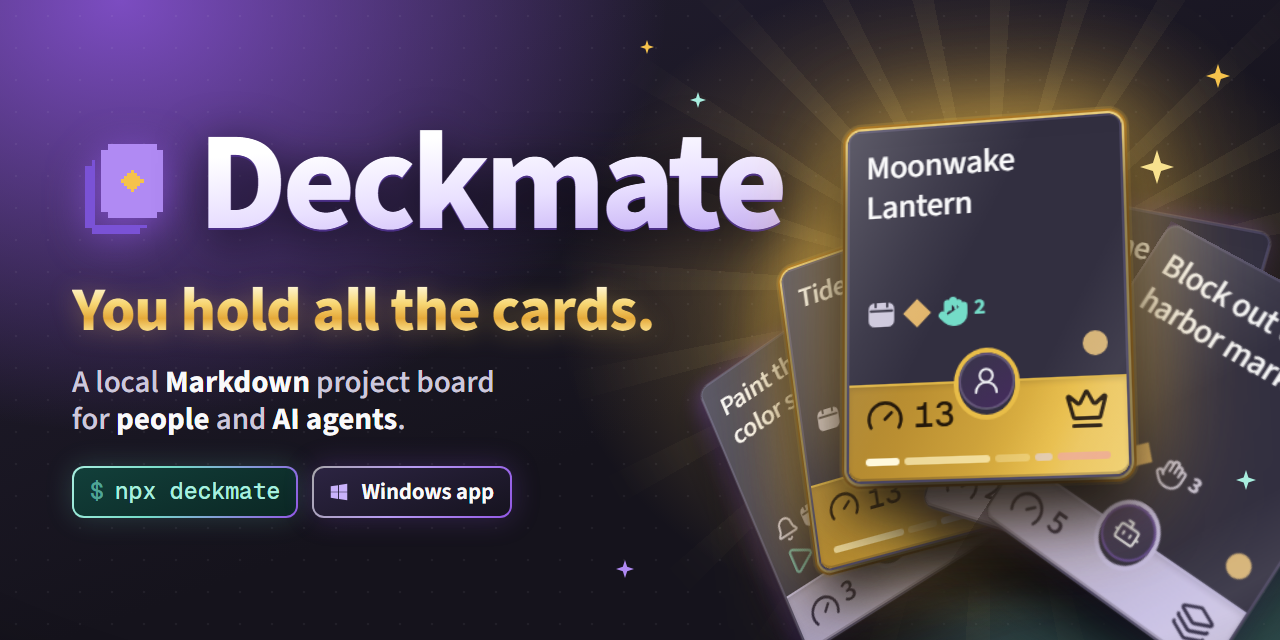
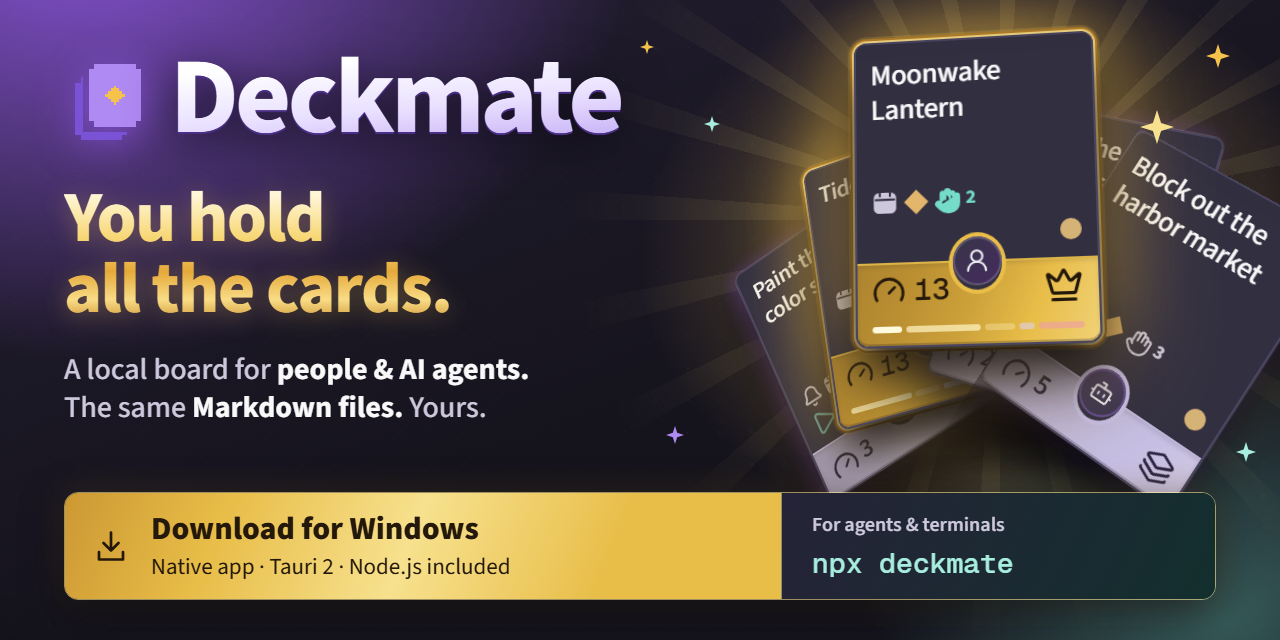
docs: README hero, social preview and docs for the Tauri shell
- New README hero in English and Russian: banner, "You hold all the
  cards.", download and npx paths, release/CI/license badges.
- The social preview leads with the Windows app and npx deckmate for
  agents, keeping the card fan.
- The start-screen screenshot shows the real version.
- AGENTS.md, CONTRIBUTING.md, SECURITY.md and docs/github-settings.md
  describe the Tauri shell; README quick start covers WebView2, the bundled
  Node and upgrading from the Electron app.

diff --git a/docs/social-preview.html b/docs/social-preview.html
@@ -3,58 +3,57 @@
 <head>
   <meta charset="utf-8">
   <meta name="viewport" content="width=1280, initial-scale=1">
-  <title>Deckmate — a local Markdown project board for teams of people and AI agents</title>
-  <!-- 2026-11-07: GitHub link preview, 1280×640; rendered by `npm run shots`. The fanned cards are crops of the real
+  <title>Deckmate — your project, on your desktop. People and AI agents, the same Markdown files.</title>
+  <!-- 2026-11-09: shared GitHub preview and README banner, 1280×640; render with `npm run shots -- --social`.
+       The fanned cards are crops of the real
        docs/social-cards.png capture (five cards, 230×294 px each, 262 px apart, 16 px inset), not redrawn UI. -->
   <style>
     @font-face { font-family: "Source Sans 3"; src: url('../assets/fonts/source-sans-3/SourceSans3-latin-wght.woff2'); font-weight: 200 900; }
     @font-face { font-family: "Geist Mono"; src: url('../assets/fonts/geist/GeistMono-Medium.ttf'); font-weight: 500; }
-    :root { color-scheme: dark; --night: #15131c; --ink: #f9f9fa; --muted: #cdc8dc; --plum: #9258e5; --gold: #f5c24c;
-      --champagne: #f7e18e; --hero: #e5b650; --mint: #a8eedf; --mint-ground: #0f3a35; --mint-edge: #2a8a7b; }
+    :root { color-scheme: dark; --night: #15131c; --ink: #f9f9fa; --muted: #cdc8dc; --plum: #9258e5;
+      --gold: #e8bd48; --champagne: #f7e18e; --hero-ink: #24180a; --mint: #a8eedf; }
     * { box-sizing: border-box; }
     body { margin: 0; background: var(--night); color: var(--ink); font-family: "Source Sans 3", sans-serif; }
     .stage { position: relative; width: 1280px; height: 640px; overflow: hidden;
       background:
-        radial-gradient(560px 460px at 960px 300px, #f5c24c80, #e5b65030 45%, transparent 72%),
-        radial-gradient(760px 600px at 120px 0px, #9258e5cc, transparent 72%),
-        radial-gradient(560px 400px at 1200px 660px, #74dcc866, transparent 70%),
+        radial-gradient(500px 400px at 1000px 260px, #f5c24c80, #e5b65030 45%, transparent 72%),
+        radial-gradient(760px 620px at 80px -100px, #9258e5ee, transparent 74%),
+        radial-gradient(500px 400px at 1220px 620px, #74dcc85c, transparent 70%),
         linear-gradient(160deg, #241f33, var(--night) 60%); }
     /* A faint pixel grid recalls the board and the pixel mark without competing with the cards. */
     .stage::after { content: ""; position: absolute; inset: 0; pointer-events: none; background: radial-gradient(130% 120% at 50% 45%, transparent 55%, #0000008c); }
-    .stage::before { content: ""; position: absolute; inset: 0; opacity: .35;
+    .stage::before { content: ""; position: absolute; inset: 0; opacity: .25;
       background-image: radial-gradient(#ffffff26 1.2px, transparent 1.6px); background-size: 32px 32px; }
-    .copy { position: absolute; left: 72px; top: 0; bottom: 0; width: 600px; display: flex; flex-direction: column; justify-content: center; }
-    .brand { display: flex; align-items: center; gap: 22px; }
-    .logo { width: 104px; height: 104px; image-rendering: pixelated; filter: drop-shadow(0 6px 18px #9258e5aa); }
-    h1 { margin: 0; padding-bottom: 8px; font-size: 140px; font-weight: 800; line-height: .9; letter-spacing: -.035em;
+    .copy { position: absolute; z-index: 2; left: 64px; top: 44px; width: 650px; }
+    .brand { display: flex; align-items: center; gap: 18px; }
+    .logo { width: 88px; height: 88px; image-rendering: pixelated; filter: drop-shadow(0 6px 18px #9258e5aa); }
+    h1 { margin: 0; padding-bottom: 8px; font-size: 108px; font-weight: 800; line-height: 1; letter-spacing: -.035em;
       background: linear-gradient(175deg, #ffffff 20%, #e9e0ff 55%, #b79cf2 100%); -webkit-background-clip: text; background-clip: text; color: transparent;
       filter: drop-shadow(0 2px 0 #4b2f86) drop-shadow(0 10px 24px #0a0812cc); }
-    .slogan { margin: 24px 0 0; font-size: 62px; font-weight: 800; line-height: 1; letter-spacing: -.015em;
+    .slogan { margin: 24px 0 0; font-size: 72px; font-weight: 800; line-height: .98; letter-spacing: -.025em;
       background: linear-gradient(180deg, #fff6d6 8%, #f7d775 38%, #e5a93a 62%, #f9dc86 82%, #c98d2a); -webkit-background-clip: text; background-clip: text; color: transparent;
       filter: drop-shadow(0 3px 12px #e5b65055); }
-    .tagline { margin: 22px 0 28px; color: var(--muted); font-size: 31px; font-weight: 550; line-height: 1.2; }
+    .tagline { margin: 26px 0 0; color: var(--muted); font-size: 30px; font-weight: 500; line-height: 1.28; }
     .tagline b { color: var(--ink); font-weight: 700; }
-    /* 2026-11-08: ways to run Deckmate sit in one row: the CLI plate, then one chip per desktop platform
-       (Windows today; a macOS chip joins the row later). The chips share the plate's shape and size. */
-    .badges { display: flex; align-items: center; gap: 14px; }
-    .badge { display: inline-flex; align-items: center; padding: 10px 16px; border: 2px solid transparent; border-radius: 12px; line-height: 1.2; }
-    .badge-app { gap: 11px; padding-left: 14px;
-      background: linear-gradient(160deg, #2c2442, #16131f) padding-box, linear-gradient(120deg, #ffffffa0, #b79cf2 45%, #9258e5) border-box;
-      color: var(--ink); font: 650 23px/1.2 "Source Sans 3", sans-serif; letter-spacing: -.005em; box-shadow: 0 0 28px #9258e540; }
-    .badge-app svg { width: 22px; height: 22px; fill: #c9b2fb; flex: none; }
-    code { background: linear-gradient(160deg, #123f3a, #0b2724) padding-box, linear-gradient(120deg, #a8eedf, #74dcc8 40%, #9258e5) border-box;
-      color: var(--mint); font: 500 23px/1.2 "Geist Mono", monospace; box-shadow: 0 0 28px #74dcc833; }
-    /* A trailing space in generated content collapses inside inline-flex (it printed "$npx"), so the gap is a margin. */
-    code::before { content: "$"; margin-right: 11px; color: #74dcc8aa; }
-    .cards { position: absolute; left: 700px; top: 70px; width: 580px; height: 540px; perspective: 1300px; }
-    .fan { position: absolute; inset: 0; transform-style: preserve-3d; transform: rotateX(16deg) rotateY(-22deg) rotateZ(4deg) scale(1.14); }
+    /* One entry rail gives the desktop a clear lead while the CLI shares the same foundation. */
+    .entry { position: absolute; z-index: 3; left: 64px; right: 64px; bottom: 40px; height: 108px; display: grid; grid-template-columns: 1.65fr 1fr;
+      overflow: hidden; border: 1px solid #f7e18e99; border-radius: 14px;
+      box-shadow: 0 12px 40px #07060c99, 0 0 36px #e8bd4826; }
+    .desktop { display: flex; align-items: center; gap: 22px; padding: 18px 28px; color: var(--hero-ink);
+      background: linear-gradient(112deg, #cc9833, var(--gold) 22%, #f7e18e 48%, #e8bd48 76%); }
+    .desktop svg { width: 36px; height: 36px; flex: none; fill: none; stroke: currentColor; stroke-width: 1.8; stroke-linecap: round; stroke-linejoin: round; }
+    .desktop strong { display: block; font-size: 32px; font-weight: 800; line-height: 1.15; }
+    .desktop small { display: block; margin-top: 5px; font-size: 23px; line-height: 1.2; }
+    .terminal { display: flex; flex-direction: column; justify-content: center; gap: 6px; padding: 16px 30px;
+      background: linear-gradient(115deg, #252337, #132f2e); border-left: 1px solid #fff4c280; }
+    .terminal span { color: var(--muted); font-size: 20px; font-weight: 600; }
+    code { color: var(--mint); font: 500 28px/1.3 "Geist Mono", monospace; white-space: nowrap; }
+    .cards { position: absolute; left: 710px; top: 0; width: 540px; height: 480px; perspective: 1300px; }
+    .fan { position: absolute; inset: 0; transform-style: preserve-3d; transform: rotateX(16deg) rotateY(-22deg) rotateZ(4deg) scale(.98); }
     /* A soft floor shadow anchors the floating hand. */
     .floor { position: absolute; left: 60px; right: 0; bottom: 6px; height: 90px; border-radius: 50%; background: radial-gradient(closest-side, #000000b0, transparent); filter: blur(6px); }
-    .card { position: absolute; left: 185px; top: 150px; width: 230px; height: 294px; overflow: hidden; border-radius: 12px;
+    .card { position: absolute; left: 170px; top: 110px; width: 230px; height: 294px; overflow: hidden; border-radius: 12px;
       transform-origin: 50% 165%; box-shadow: 0 30px 50px #07060cdd, 0 0 0 1px #ffffff26, -6px 0 22px #9258e566; }
-    /* Glare across the card face gives the matte top a lacquered, premium finish. */
-    .card::after { content: ""; position: absolute; inset: 0; border-radius: inherit; pointer-events: none;
-      background: linear-gradient(118deg, #ffffff38 0%, #ffffff10 28%, transparent 42%, transparent 70%, #ffffff14 86%, transparent 100%); }
     .card img { position: absolute; top: -16px; left: calc(-16px - 262px * var(--i)); width: 1310px; height: 326px; }
     .card.hero { box-shadow: 0 30px 50px #07060cdd, 0 0 0 2px #f9dc86, 0 0 0 4px #b8822a, 0 0 90px #f5c24cee, 0 0 0 6px #f5c24c33; }
     .c0 { transform: rotate(-32deg) translateY(14px) translateZ(-60px); }
@@ -63,7 +62,7 @@
     .c3 { transform: rotate(15deg) translateY(-4px) translateZ(10px); }
     .c4 { transform: rotate(32deg) translateY(14px) translateZ(10px); }
     /* Golden rays burst from behind the front Hero, like a winning card being shown. */
-    .rays { position: absolute; left: 990px; top: 290px; width: 1400px; height: 1400px; margin: -700px 0 0 -700px; border-radius: 50%; opacity: .55;
+    .rays { position: absolute; left: 1000px; top: 220px; width: 1400px; height: 1400px; margin: -700px 0 0 -700px; border-radius: 50%; opacity: .65;
       background: repeating-conic-gradient(from 0deg, #f7e18e40 0deg 4deg, transparent 4deg 15deg);
       -webkit-mask: radial-gradient(closest-side, #000 8%, transparent 62%); mask: radial-gradient(closest-side, #000 8%, transparent 62%); }
     /* Pixel sparkles in the mark's pip shape. */
@@ -79,12 +78,8 @@
         <img class="logo" src="../assets/logo/deckmate-256.png" alt="Deckmate logo">
         <h1>Deckmate</h1>
       </div>
-      <p class="slogan">You hold all the cards.</p>
-      <p class="tagline">A local <b>Markdown</b> project board<br>for <b>people</b> and <b>AI agents</b>.</p>
-      <div class="badges">
-        <code class="badge">npx deckmate</code>
-        <span class="badge badge-app"><svg viewBox="0 0 24 24" aria-hidden="true"><path d="M3 5.6 11 4.5v7.1H3zM12 4.3 21 3v8.6h-9zM3 12.4h8v7.1L3 18.4zM12 12.4h9V21l-9-1.3z"/></svg>Windows app</span>
-      </div>
+      <p class="slogan">You hold<br>all the cards.</p>
+      <p class="tagline">A local board for <b>people &amp; AI agents.</b><br>The same <b>Markdown files.</b> Yours.</p>
     </section>
     <div class="cards" aria-label="Five real cards from the sample project, fanned like a hand">
       <div class="floor"></div>
@@ -96,11 +91,18 @@
       <div class="card c4" style="--i: 4"><img src="social-cards.png" alt="A task owned by an AI agent"></div>
       </div>
     </div>
-    <i class="spark" style="--c: #f5c24c; left: 1206px; top: 64px"></i>
-    <i class="spark" style="--c: #a8eedf; left: 690px; top: 92px; width: 16px; height: 16px"></i>
-    <i class="spark" style="--c: #b08af3; left: 616px; top: 560px; width: 18px; height: 18px"></i>
-    <i class="spark" style="--c: #f7e18e; left: 1140px; top: 150px; width: 34px; height: 34px"></i>
-    <i class="spark" style="--c: #a8eedf; left: 1236px; top: 470px; width: 20px; height: 20px"></i>
+    <section class="entry" aria-label="Start with the Windows app, or use the CLI">
+      <div class="desktop">
+        <svg viewBox="0 0 24 24" aria-hidden="true"><path d="M12 3v12m-5-5 5 5 5-5M4 16v5h16v-5"/></svg>
+        <div><strong>Download for Windows</strong><small>Native app · Tauri 2 · Node.js included</small></div>
+      </div>
+      <div class="terminal"><span>For agents &amp; terminals</span><code>npx deckmate</code></div>
+    </section>
+    <i class="spark" style="--c: #f5c24c; left: 1206px; top: 44px"></i>
+    <i class="spark" style="--c: #a8eedf; left: 704px; top: 116px; width: 16px; height: 16px"></i>
+    <i class="spark" style="--c: #b08af3; left: 666px; top: 426px; width: 18px; height: 18px"></i>
+    <i class="spark" style="--c: #f7e18e; left: 1140px; top: 110px; width: 34px; height: 34px"></i>
+    <i class="spark" style="--c: #a8eedf; left: 1236px; top: 442px; width: 20px; height: 20px"></i>
     <i class="spark" style="--c: #f5c24c; left: 640px; top: 40px; width: 14px; height: 14px"></i>
   </main>
 </body>

diff --git a/README.ru.md b/README.ru.md
@@ -1,45 +1,48 @@
-<div align="center">
+<p align="center">
+  <a id="deckmate" href="https://github.com/pierkulakov/deckmate/releases/latest">
+    <img src="docs/social-preview.png" width="1012" alt="Deckmate — все карточки на руках. Светящийся веер настоящих карточек; люди и ИИ-агенты работают с общими Markdown-файлами. Нативное приложение для Windows на Tauri 2 со встроенным Node.js; npx deckmate для агентов и терминала." />
+  </a>
+</p>
 
-<picture>
-  <source media="(prefers-color-scheme: dark)" srcset="assets/logo/deckmate-256.png" />
-  <source media="(prefers-color-scheme: light)" srcset="assets/logo/deckmate-256-light.png" />
-  <img src="assets/logo/deckmate-256-light.png" alt="Логотип Deckmate" width="88" height="88" />
-</picture>
+<h3 align="center" id="все-карточки-на-руках">Все карточки на руках.</h3>
 
-# Deckmate
+<p align="center">
+  <b>Локальная доска проекта для людей и ИИ-агентов.</b><br />
+  Карточки — Markdown-файлы в вашем репозитории. Вы работаете в приложении, агенты — с теми же файлами.
+</p>
 
-### Все карточки на руках.
+<p align="center">
+  <a href="https://github.com/pierkulakov/deckmate/releases/latest"><b>Скачать для Windows →</b></a>
+  &nbsp; · &nbsp;
+  <a href="#командная-строка"><code>npx deckmate</code></a> для агентов и терминала
+</p>
 
-Локальная доска проекта в Markdown для команд из людей и ИИ-агентов.
+<p align="center">
+  Откройте папку проекта, создайте новый или вернитесь к недавнему.<br />
+  <sub>Лёгкое нативное приложение · Tauri 2 · Node.js встроен · Больше ничего устанавливать не нужно</sub>
+</p>
 
-**Статус:** 0.5.0 — ранний релиз. Формат файлов проекта (схема 1) может измениться до версии 1.0.
+<p align="center">
+  <a href="https://github.com/pierkulakov/deckmate/releases/latest"><img src="https://img.shields.io/github/v/release/pierkulakov/deckmate?style=flat&amp;label=release&amp;color=9258e5&amp;labelColor=27242f" alt="Последний выпуск" /></a>
+  <a href="https://github.com/pierkulakov/deckmate/actions/workflows/ci.yml"><img src="https://img.shields.io/github/actions/workflow/status/pierkulakov/deckmate/ci.yml?branch=main&amp;style=flat&amp;label=CI&amp;labelColor=27242f" alt="Статус CI" /></a>
+  <a href="LICENSE"><img src="https://img.shields.io/badge/license-AGPL--3.0--only-9258e5?style=flat&amp;labelColor=27242f" alt="Лицензия: AGPL-3.0-only" /></a>
+</p>
 
-[![npm](https://img.shields.io/npm/v/deckmate?color=7a52d6)](https://www.npmjs.com/package/deckmate)
-[![License: AGPL-3.0](docs/badges/license.svg)](LICENSE)
-[![Node](docs/badges/node.svg)](#командная-строка)
+<p align="center"><sub>Ранний релиз · macOS в планах · Формат файлов проекта (схема 1) может измениться до версии 1.0.</sub></p>
 
-[Быстрый старт](#быстрый-старт) · [Свой проект](#со-своим-проектом) · [Понятия](#как-это-устроено) · [Decks и Inbox](#decks-inbox-и-sub-cards) · [Агенты](#работа-с-ии-агентами) · [Вопросы](#вопросы)
+<p align="center">
+  <a href="#быстрый-старт">Быстрый старт</a> · <a href="#со-своим-проектом">Свой проект</a> · <a href="#как-это-устроено">Понятия</a> · <a href="#decks-inbox-и-sub-cards">Decks и Inbox</a> · <a href="#работа-с-ии-агентами">Агенты</a> · <a href="#вопросы">Вопросы</a>
+</p>
 
-[English](README.md) · **Русский**
-
-</div>
-
-![Decks: счётчики документов и карточек под названием проекта, пульс проекта и иллюстрированные обложки Deck](docs/screenshots/decks.png)
-
-Deckmate превращает папку с Markdown в доску проекта для команд, которые делают игры и софт: Decks, Hero-карточки с Sub Cards, Hand у каждого участника, Run и Milestone на Timeline, повторяемые Journey и доска Vision. Каждая карточка — обычный файл в вашем репозитории: люди правят её в приложении, ИИ-агенты читают и пишут тот же файл напрямую.
-
-- **Доска живёт рядом с работой.** Всё хранится локально: карточки — Markdown-файлы в вашем репозитории, доски — файлы Excalidraw, историю хранит git. Поисковый индекс можно удалить и собрать заново.
-- **Сразу видно, что требует внимания.** Пульс проекта показывает задачи в работе, очередь приёмки, принятое за 14 дней, текущий Run и карточки без Deck.
-- **У людей и ИИ-агентов один процесс.** Агент берёт следующую карточку из своего Hand, читает только нужные правила, задаёт вопросы на карточке и сдаёт отчёт на проверку.
-- **Локально и бережно к файлам.** Без аккаунтов, облачной синхронизации, телеметрии и автокоммитов. Доска работает локально; Vision может загружать рукописные шрифты Excalidraw, а внешним встраиваемым материалам нужен интернет. Сохранение переписывает только изменённый блок; устаревшая запись отклоняется, а не затирает чужую работу.
+<p align="center"><a href="README.md">English</a> · <b>Русский</b></p>
 
 ## Быстрый старт
 
 ### Настольное приложение
 
-Deckmate Desktop — настольное приложение на Electron для Windows 10 и 11 (x64); поддержка macOS планируется позже. Скачайте установщик (`Deckmate Setup <версия>.exe`) или portable-архив zip из [последнего выпуска](https://github.com/pierkulakov/deckmate/releases/latest). Сборка не подписана, поэтому Windows SmartScreen предупредит о неизвестном издателе: нажмите **Подробнее → Выполнить в любом случае**.
+Deckmate Desktop — лёгкое нативное приложение на Tauri для Windows 10 и 11 (x64); поддержка macOS планируется позже. Скачайте установщик (`Deckmate Setup <версия>.exe`) или portable-архив (`Deckmate-<версия>-win-x64.zip`) из [последнего выпуска](https://github.com/pierkulakov/deckmate/releases/latest). Сборка не подписана, поэтому Windows SmartScreen предупредит о неизвестном издателе: нажмите **Подробнее → Выполнить в любом случае**.
 
-Запустите установщик и откройте Deckmate по значку или распакуйте portable-архив и запустите `Deckmate.exe`. Затем выберите существующую папку проекта или создайте проект в пустой папке. Устанавливать Node.js и открывать терминал не нужно.
+Запустите установщик и откройте Deckmate по значку или распакуйте portable-архив и запустите `Deckmate.exe` (в архиве — `Deckmate.exe`, `node.exe` и папка `deckmate/`). Затем выберите существующую папку проекта или создайте проект в пустой папке. Интерфейс отображается через системный рантайм Microsoft Edge WebView2 — он входит в Windows 11, а на Windows 10 его доустановит установщик, если он отсутствует. Вместе с приложением идёт собственный Node.js 26 для локального сервера, поэтому больше ничего устанавливать не нужно и терминал не пригодится. При обновлении с версии на Electron (0.5.0 и более ранней) новый установщик сначала удалит старое приложение и сохранит настройки: недавние проекты, язык, масштаб и положение окна перенесутся.
 
 ### Командная строка
 
@@ -63,7 +66,7 @@ npx deckmate --data deckmate-demo
 При следующем запуске последний проект откроется автоматически. Вернуться на стартовый экран можно через **File → Switch project** (`Ctrl+Shift+O`), открыть другую папку — через `Ctrl+O`.
 В меню проекта на доске также доступны другие недавние проекты — переключиться можно одним нажатием.
 Внутри настольного приложения работает тот же локальный сервер Deckmate на `127.0.0.1` со случайным свободным портом; данные остаются в папке проекта.
-Список недавних и последний проект хранятся в `%APPDATA%\Deckmate\desktop.json`, индекс — как прежде, в папке кэша.
+Настройки — недавние проекты, последний проект, язык, масштаб и положение окна — хранятся в `%APPDATA%\Deckmate\desktop.json`; рядом лежит журнал сервера `server.log`, а перестраиваемый индекс — в `%APPDATA%\Deckmate\index`.
 
 ## Со своим проектом
 
@@ -215,7 +218,7 @@ npx deckmate project report <карточка> --file report.md --member <уча
 
 ## Вопросы
 
-**Где мои данные?** В папке проекта: карточки и инструкции в Markdown, манифест каталога и доски `.excalidraw`. Индекс SQLite лежит в папке кэша и собирается из файлов. Настольное приложение отдельно хранит список недавних и последний проект в `%APPDATA%\Deckmate\desktop.json`.
+**Где мои данные?** В папке проекта: карточки и инструкции в Markdown, манифест каталога и доски `.excalidraw`. Индекс SQLite лежит в папке кэша и собирается из файлов. Настольное приложение отдельно хранит настройки и индекс в `%APPDATA%\Deckmate\` (`desktop.json` и `index`).
 
 **Нужен ли интернет?** Для установки, загрузки рукописных шрифтов Excalidraw и внешних встраиваемых материалов в Vision. Сама доска работает локально на `127.0.0.1`; агенты читают файлы и при остановленном сервере.
 

diff --git a/README.md b/README.md
@@ -1,45 +1,48 @@
-<div align="center">
+<p align="center">
+  <a id="deckmate" href="https://github.com/pierkulakov/deckmate/releases/latest">
+    <img src="docs/social-preview.png" width="1012" alt="Deckmate — you hold all the cards. A glowing hand of real cards; people and AI agents share Markdown files. Native Windows app on Tauri 2 with Node.js included; npx deckmate for agents and terminals." />
+  </a>
+</p>
 
-<picture>
-  <source media="(prefers-color-scheme: dark)" srcset="assets/logo/deckmate-256.png" />
-  <source media="(prefers-color-scheme: light)" srcset="assets/logo/deckmate-256-light.png" />
-  <img src="assets/logo/deckmate-256-light.png" alt="Deckmate logo" width="88" height="88" />
-</picture>
+<h3 align="center" id="you-hold-all-the-cards">You hold all the cards.</h3>
 
-# Deckmate
+<p align="center">
+  <b>A local project board for people and AI agents.</b><br />
+  Your cards are Markdown files in your repository. Work in the app; your agents work on the same files.
+</p>
 
-### You hold all the cards.
+<p align="center">
+  <a href="https://github.com/pierkulakov/deckmate/releases/latest"><b>Download for Windows →</b></a>
+  &nbsp; · &nbsp;
+  <a href="#cli"><code>npx deckmate</code></a> for agents &amp; terminals
+</p>
 
-A local Markdown project board for teams of people and AI agents.
+<p align="center">
+  Open a project folder, create a new one, or pick up a recent project.<br />
+  <sub>Lightweight native app · Tauri 2 · Node.js included · Nothing else to install</sub>
+</p>
 
-**Status:** 0.5.0, an early release. The project file format (schema 1) may change before 1.0.
+<p align="center">
+  <a href="https://github.com/pierkulakov/deckmate/releases/latest"><img src="https://img.shields.io/github/v/release/pierkulakov/deckmate?style=flat&amp;label=release&amp;color=9258e5&amp;labelColor=27242f" alt="Latest release" /></a>
+  <a href="https://github.com/pierkulakov/deckmate/actions/workflows/ci.yml"><img src="https://img.shields.io/github/actions/workflow/status/pierkulakov/deckmate/ci.yml?branch=main&amp;style=flat&amp;label=CI&amp;labelColor=27242f" alt="CI status" /></a>
+  <a href="LICENSE"><img src="https://img.shields.io/badge/license-AGPL--3.0--only-9258e5?style=flat&amp;labelColor=27242f" alt="License: AGPL-3.0-only" /></a>
+</p>
 
-[![npm](https://img.shields.io/npm/v/deckmate?color=7a52d6)](https://www.npmjs.com/package/deckmate)
-[![License: AGPL-3.0](docs/badges/license.svg)](LICENSE)
-[![Node](docs/badges/node.svg)](#cli)
+<p align="center"><sub>Early release · macOS planned · Project file format (schema 1) may change before 1.0.</sub></p>
 
-[Quick start](#quick-start) · [Your project](#use-it-with-your-project) · [Concepts](#how-it-works) · [Decks and Inbox](#decks-inbox-and-sub-cards) · [Agents](#working-with-ai-agents) · [FAQ](#faq)
+<p align="center">
+  <a href="#quick-start">Quick start</a> · <a href="#use-it-with-your-project">Your project</a> · <a href="#how-it-works">Concepts</a> · <a href="#decks-inbox-and-sub-cards">Decks and Inbox</a> · <a href="#working-with-ai-agents">Agents</a> · <a href="#faq">FAQ</a>
+</p>
 
-**English** · [Русский](README.ru.md)
-
-</div>
-
-![Decks: document and card counts under the project name, project pulse and illustrated deck covers](docs/screenshots/decks.png)
-
-Deckmate turns a folder of Markdown files into a project board for game and software teams: decks, Hero cards with Sub Cards, a Hand for each teammate, Runs and Milestones on a timeline, repeatable Journeys and a Vision canvas. Every card is a plain file in your repository, so people edit it in the app and AI agents read and write the same file directly.
-
-- **Your board lives beside your work.** Local-first: cards are Markdown files in your repository, canvases are Excalidraw files, git keeps the history. The search index can be deleted and rebuilt at any time.
-- **See what needs attention.** The project pulse shows work in progress, the review queue, accepted tasks over 14 days, the current Run and cards without a deck.
-- **People and AI agents share one workflow.** An agent takes the next card from its Hand, reads only the rules it needs, asks questions on the card and hands in a report for review.
-- **Local and safe with your files.** No account, cloud sync, telemetry or automatic commits. The board runs locally; Vision may download Excalidraw's handwritten fonts, and external embeds need internet access. A save rewrites only the edited block; a stale write is rejected instead of overwriting someone else's work.
+<p align="center"><b>English</b> · <a href="README.ru.md">Русский</a></p>
 
 ## Quick start
 
 ### Desktop
 
-Deckmate Desktop is an Electron app for Windows 10 and 11 (x64); macOS support is planned later. Download the installer (`Deckmate Setup <version>.exe`) or the portable zip from the [latest release](https://github.com/pierkulakov/deckmate/releases/latest). The build is not code-signed, so Windows SmartScreen warns about an unknown publisher: choose **More info → Run anyway**.
+Deckmate Desktop is a lightweight native app built on Tauri for Windows 10 and 11 (x64); macOS support is planned later. Download the installer (`Deckmate Setup <version>.exe`) or the portable zip (`Deckmate-<version>-win-x64.zip`) from the [latest release](https://github.com/pierkulakov/deckmate/releases/latest). The build is not code-signed, so Windows SmartScreen warns about an unknown publisher: choose **More info → Run anyway**.
 
-Run the installer and launch Deckmate from its icon, or unzip the portable build and start `Deckmate.exe`. Then open an existing project folder or create a project in an empty folder. You do not need to install Node.js or open a terminal.
+Run the installer and launch Deckmate from its icon, or unzip the portable build and start `Deckmate.exe` (the zip holds `Deckmate.exe`, `node.exe` and the `deckmate/` folder). Then open an existing project folder or create a project in an empty folder. The interface renders through the system Microsoft Edge WebView2 runtime, which is part of Windows 11; on Windows 10 the installer sets it up when it is missing. The app ships its own Node.js 26 runtime for the local server, so you install nothing else and need no terminal. Upgrading from an Electron version (0.5.0 and earlier): the new installer removes the old app first and keeps the settings — recent projects, language, zoom and window position carry over.
 
 ### CLI
 
@@ -63,7 +66,7 @@ Recent projects show their last-opened time and can be removed from the list; la
 The last project opens automatically on the next launch. Use **File → Switch project** (`Ctrl+Shift+O`) to return to the start screen, or `Ctrl+O` to open another folder.
 The project menu in the board also lists other recent projects for one-click switching.
 Desktop runs the same local Deckmate server on `127.0.0.1` with a randomly selected free port; project data remains in the project folder.
-Recent and last-project settings are stored in `%APPDATA%\Deckmate\desktop.json`; the index remains in the cache folder.
+Settings — recent projects, last project, language, zoom and window position — live in `%APPDATA%\Deckmate\desktop.json`; the server log is `server.log` next to it, and the disposable index is in `%APPDATA%\Deckmate\index`.
 
 ## Use it with your project
 
@@ -215,7 +218,7 @@ Deckmate also ships an agent skill in the open Agent Skills format. Once the pro
 
 ## FAQ
 
-**Where is my data?** In your project folder: Markdown cards and instructions, the catalog manifest and `.excalidraw` boards. The SQLite index lives in a cache folder and is rebuilt from the files. Desktop keeps its recent and last-project settings separately in `%APPDATA%\Deckmate\desktop.json`.
+**Where is my data?** In your project folder: Markdown cards and instructions, the catalog manifest and `.excalidraw` boards. The SQLite index lives in a cache folder and is rebuilt from the files. Desktop keeps its settings and the index separately in `%APPDATA%\Deckmate\` (`desktop.json` and `index`).
 
 **Do I need the internet?** For installation, downloading Excalidraw's handwritten fonts and loading external embeds in Vision. The board itself runs locally on `127.0.0.1`; agents can read the files with the server stopped.
 

diff --git a/SECURITY.md b/SECURITY.md
@@ -14,7 +14,7 @@ Two more entry points execute project-supplied code. `deckmate agents run` reads
 
 ## Deckmate Desktop
 
-Deckmate Desktop (the Electron shell in `desktop/`) wraps the same local server and inherits the same trust model. The installer and portable builds are not code-signed, so Windows SmartScreen warns about an unknown publisher; download them only from the repository's Releases page, and when a checksum is published for a release, compare the size/checksum of your download against it before running the installer. Inside the app the server still listens only on `127.0.0.1` on a random free port, and any local process of the same user can talk to it, exactly as with the CLI. Application settings and the server log live in the user's profile (`%APPDATA%\Deckmate\desktop.json` and `server.log`); project data stays in the project folder. Vulnerabilities in the desktop shell itself are reported through the same channel described below.
+Deckmate Desktop (the Tauri shell in `desktop/`) wraps the same local server and inherits the same trust model. The installer and portable builds are not code-signed, so Windows SmartScreen warns about an unknown publisher; download them only from the repository's Releases page, and when a checksum is published for a release, compare the size/checksum of your download against it before running the installer. Inside the app the server still listens only on `127.0.0.1` on a random free port, and any local process of the same user can talk to it, exactly as with the CLI. Application settings and the server log live in the user's profile (`%APPDATA%\Deckmate\desktop.json` and `server.log`); project data stays in the project folder. Vulnerabilities in the desktop shell itself are reported through the same channel described below.
 
 ## Supported versions
 

diff --git a/AGENTS.md b/AGENTS.md
@@ -13,7 +13,7 @@ Deckmate is a local project board over Markdown. The files in the user's project
 | `bin/deckmate.mjs` | Published command: `deckmate`, `deckmate init <folder>`, and `deckmate project`, `skills`, `agents` — the same functions as the npm scripts of those names. |
 | `skills/deckmate/` | Agent skill in the open Agent Skills format: router, workflows, lenses, genres, engines. |
 | `assets/` | Fonts, logo, deck art, starter project templates and Journey templates. |
-| `desktop/` | Electron shell: start screen, window and menu, the bundled server as a child process; its own package.json, see [desktop/README.md](desktop/README.md). |
+| `desktop/` | Tauri 2 shell: Rust in `desktop/src-tauri/`, start screen, window and menu, the bundled Node server as a sidecar; its own package.json, see [desktop/README.md](desktop/README.md). |
 | `tests/` | Vitest suites. |
 | `docs/` | Data contract ([catalog.md](docs/catalog.md)), local API ([api.md](docs/api.md)), skills and agent configuration. |
 
@@ -48,6 +48,8 @@ npm run quiet -- npm run typecheck
 npm run quiet -- npx vitest run <test files that cover your change>
 npm run quiet -- npm run build
 ```
+
+The desktop shell has its own tests: `cargo test --manifest-path desktop/src-tauri/Cargo.toml`; they need Rust, and `npm test` does not build them. `npm run desktop:smoke` additionally drives the real debug shell end to end over CDP (Windows only; needs `cargo build` first).
 
 Run the full `npm test` before opening a pull request. The running app serves `dist/`: client changes need `npm run build` and a page reload; server changes need `npm run build` and a restart.
 

diff --git a/docs/github-settings.md b/docs/github-settings.md
@@ -91,10 +91,10 @@ After success, verify the npm version/provenance, installation from npm, the Git
 
 ### Desktop artifacts
 
-The `desktop` job in [release.yml](../.github/workflows/release.yml) builds the Windows Electron shell and attaches the installer `Deckmate Setup <version>.exe` and the portable zip to the GitHub Release. After the release workflow finishes, check the Release page for both files. If the `desktop` job failed but the rest of the release succeeded, build the installer locally in `desktop/` (`npm run dist:nsis`) and upload it manually:
+The `desktop` job in [release.yml](../.github/workflows/release.yml) builds the Windows Tauri shell and attaches the installer `Deckmate Setup <version>.exe` and the portable zip `Deckmate-<version>-win-x64.zip` to the GitHub Release; the job also self-tests the unpacked build, the installer and the uninstaller. After the release workflow finishes, check the Release page for both files. If the `desktop` job failed but the rest of the release succeeded, build locally (`node desktop/scripts/prepare-sidecar.mjs`, then `npm run dist` in `desktop/`; the NSIS installer comes from `desktop/src-tauri/target/release/bundle/nsis/`), pack the assets into `desktop/release/` as the workflow does, and upload them manually:
 
 ```sh
-gh release upload v<version> "desktop/release/Deckmate Setup <version>.exe"
+gh release upload v<version> "desktop/release/Deckmate Setup <version>.exe" "desktop/release/Deckmate-<version>-win-x64.zip"
 ```
 
 ### Move to trusted publishing after bootstrap

diff --git a/CONTRIBUTING.md b/CONTRIBUTING.md
@@ -38,6 +38,8 @@ npm run dev -- --data ../deckmate-demo
 npm run quiet -- <command>   # short output; the full log goes to .deckmate/quiet/
 ```
 
+The Windows desktop shell in `desktop/` is a Tauri app with its own requirements and loop; see [desktop/README.md](desktop/README.md).
+
 Agent commands from source mirror the published `deckmate` subcommands and call the same functions (`tools/project.ts`, `tools/deckmate-skills.ts`, `tools/deckmate-run.ts`, compiled into `dist/tools/` for the package):
 
 ```sh
